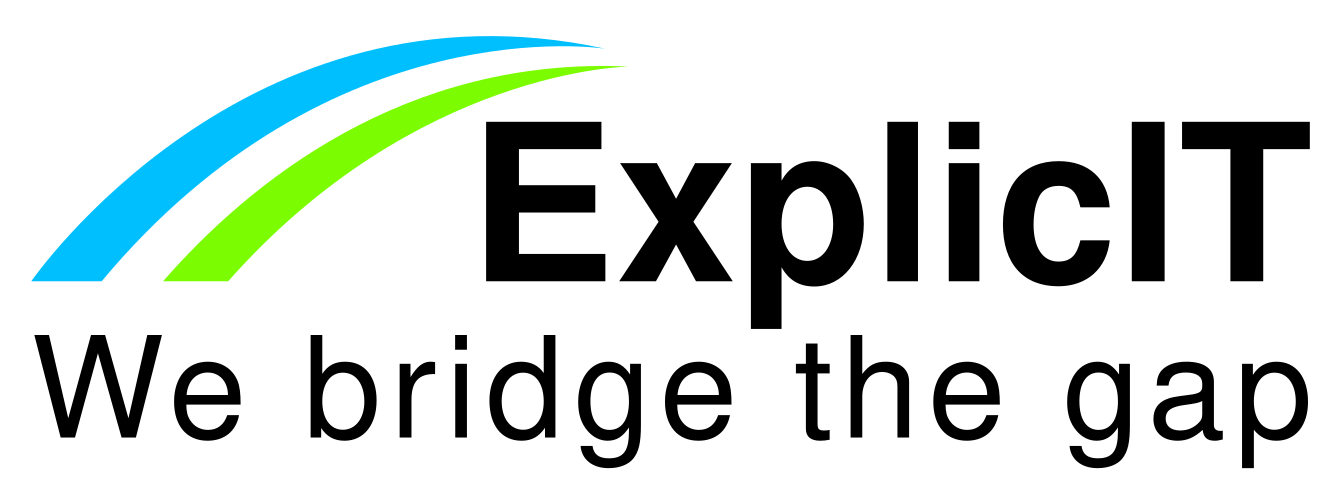
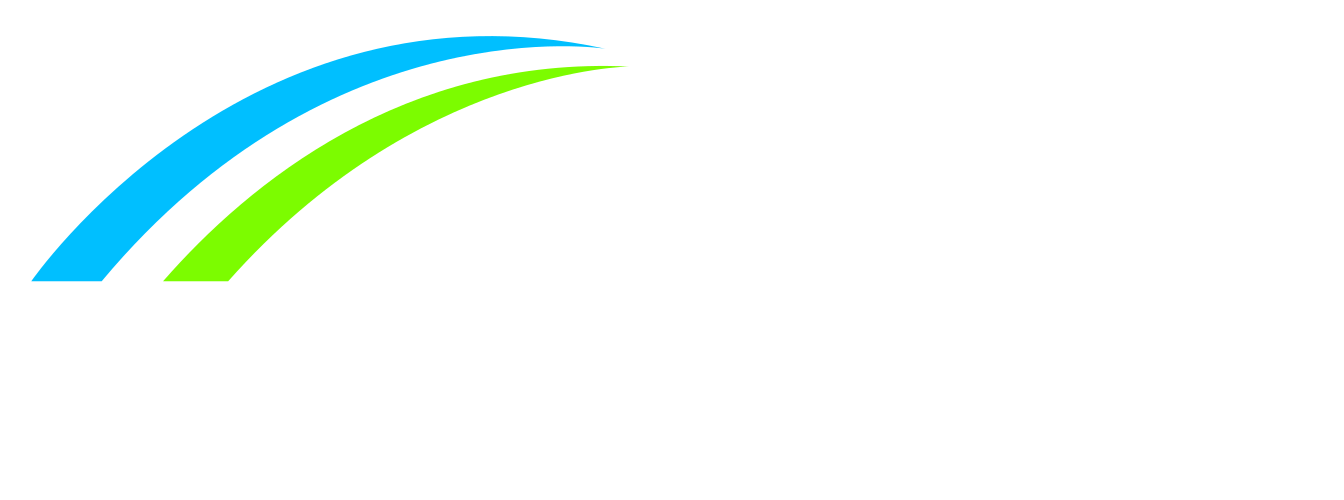
test

diff --git a/docs/index.md b/docs/index.md
@@ -1,7 +1,7 @@
 ---
 layout: page
-title: <img src="/assets/images/Original-ExplicIT-Consulting_-color-on-transparent_-company-and-slogan.png" alt="ExplicIT" width="200">
-subtitle: We bridge the gap between strategy and execution<br><br><br>Specific, clear and detailed IT consulting.<br>Bold and future-oriented, always realistic and without steam talk.<br>We bridge gaps, with our heads in the sky and our feet firmly on the ground.<br><br><strong><br><a href="/services/">> Which gap can we bridge for you?</a><br><br><a href="/open-source/set-outlooksignatures">> Set-OutlookSignatures Benefactor Circle</a></strong>
+title: <img src="/assets/images/Original-ExplicIT-Consulting_-color-on-transparent_-company-and-slogan.png" alt="ExplicIT Consulting. We bridge the gap." width="500">
+subtitle: Specific, clear and detailed IT consulting.<br>Bold and future-oriented, always realistic and without steam talk.<br>We bridge gaps, with our heads in the sky and our feet firmly on the ground.<br><br><strong><br><a href="/services/">> Which gap can we bridge for you?</a><br><br><a href="/open-source/set-outlooksignatures">> Set-OutlookSignatures Benefactor Circle</a></strong>
 hero_image: /assets/images/Background, Golden Bridge Vietnam.jpg
 hero_height: is-fullheight-with-navbar
 hero_darken: true
